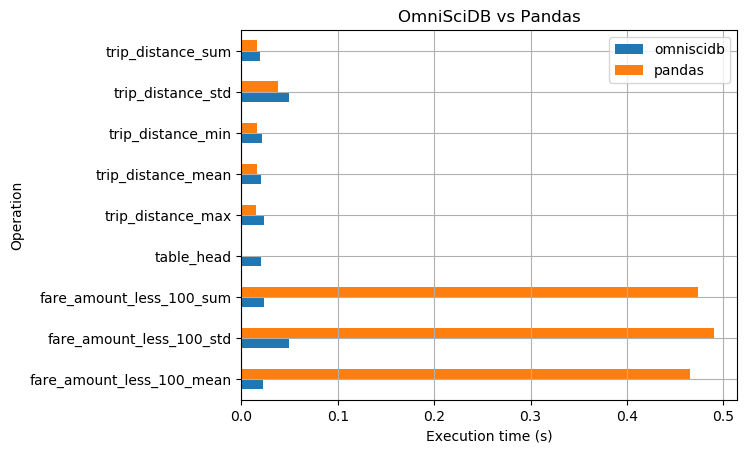
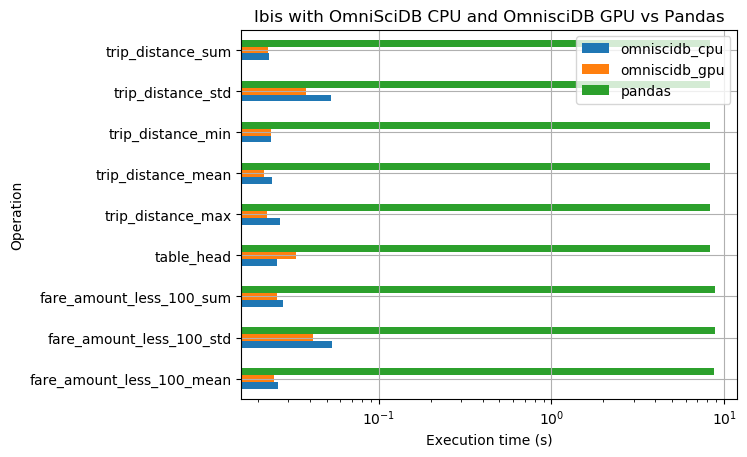
Added gpu backend and more instruction into README file

diff --git a/ibis_benchmark/benchmark_nyc_taxi.py b/ibis_benchmark/benchmark_nyc_taxi.py
@@ -28,7 +28,7 @@ import ibis
 import pandas as pd
 
 from ibis_benchmark.chart import gen_chart
-from ibis_benchmark.utils import benchmark, cacheit, register_log
+from ibis_benchmark.utils import benchmark, register_log
 
 # start a new benchmark log
 results_path = os.path.join(
@@ -38,7 +38,7 @@ os.makedirs(results_path, exist_ok=True)
 log_path = os.path.join(results_path, 'benchmark-nyc-taxi.json')
 register_log(log_path, new_log=True)
 
-conn_info = {
+conn_info_cpu = {
     'host': 'localhost',
     'port': 6274,
     'user': 'admin',
@@ -46,29 +46,45 @@ conn_info = {
     'database': 'omnisci',
 }
 
+conn_info_gpu = dict(conn_info_cpu)
+conn_info_gpu.update({'port': 26274})
+
 # using a persistant connection
-omniscidb_cli = ibis.omniscidb.connect(**conn_info)
+omniscidb_cli_cpu = ibis.omniscidb.connect(**conn_info_cpu)
+omniscidb_cli_gpu = ibis.omniscidb.connect(**conn_info_gpu)
 
 
-@cacheit
-def omniscidb_table(name):
-    return omniscidb_cli.table(name)
+def omniscidb_table(name, cpu=True):
+    if cpu:
+        return omniscidb_cli_cpu.table(name)
+    return omniscidb_cli_gpu.table(name)
 
 
-@cacheit
 def pandas_table(name):
     return pd.read_csv('../scripts/data/nyc-taxi.csv')
 
-
-# caching tables
-omniscidb_table('nyc_taxi')
-pandas_table('nyc_taxi')
 
 bechmark_config = {'repeat': 3, 'log_path': log_path}
 
 # ==========
 # Benchmarks
 # ==========
+"""
+# load data. it will create a cache for each connection
+op_id = 'backend_load_data'
+@benchmark(backend='omniscidb_cpu', id=op_id, **bechmark_config)
+def benchmark_load_omniscidb_cpu():
+    omniscidb_table('nyc_taxi', cpu=True)
+
+
+@benchmark(backend='omniscidb_gpu', id=op_id, **bechmark_config)
+def benchmark_load_omniscidb_gpu():
+    omniscidb_table('nyc_taxi', cpu=False)
+
+@benchmark(backend='pandas', id=op_id, **bechmark_config)
+def benchmark_load_pandas():
+    pandas_table('nyc_taxi')
+"""
 
 for op_id, expr_fn in [
     ('table_head', lambda t: t.head()),
@@ -91,9 +107,18 @@ for op_id, expr_fn in [
     ),
 ]:
     # OMNISCIDB
-    @benchmark(backend='omniscidb', id=op_id, **bechmark_config)
-    def benchmark_sum_fare_less_100_omniscidb():
+    @benchmark(backend='omniscidb_cpu', id=op_id, **bechmark_config)
+    def benchmark_omniscidb_cpu():
         t = omniscidb_table("nyc_taxi")
+        expr = expr_fn(t)
+        result = expr.execute()
+        assert expr is not None
+        assert result is not None
+
+    # OMNISCIDB
+    @benchmark(backend='omniscidb_gpu', id=op_id, **bechmark_config)
+    def benchmark_omniscidb_gpu():
+        t = omniscidb_table("nyc_taxi", cpu=False)
         expr = expr_fn(t)
         result = expr.execute()
         assert expr is not None
@@ -101,7 +126,7 @@ for op_id, expr_fn in [
 
     # PANDAS
     @benchmark(backend='pandas', id=op_id, **bechmark_config)
-    def benchmark_sum_fare_less_100_pandas():
+    def benchmark_pandas():
         t = pandas_table("nyc_taxi")
         result = expr_fn(t)
         assert result is not None

diff --git a/ibis_benchmark/chart.py b/ibis_benchmark/chart.py
@@ -19,7 +19,13 @@ def gen_chart(table_name):
     ax.set_xlabel("Execution time (s)")
     ax.set_ylabel("Operation")
 
-    df.T.plot(kind='barh', ax=ax, title='OmniSciDB vs Pandas', grid=True)
+    df.T.plot(
+        kind='barh',
+        ax=ax,
+        title='Ibis with OmniSciDB CPU and OmnisciDB GPU vs Pandas',
+        grid=True,
+        logx=True,
+    )
 
     fig.savefig(
         os.path.join(results_path, 'chart-{}.png'.format(table_name)),

diff --git a/README.md b/README.md
@@ -1,3 +1,74 @@
 # ibis-benchmark
 
+The goal of this project is the measuring of some expressions using 
+`Ibis` with `OmniSciDB` `CPU` and `GPU` and pure `Pandas`.
 
+## Environment
+
+First, it is necessary to prepare the environments and install and start 
+the servers.
+
+### OmniSciDB CPU
+
+To prepare and install `OmniSciDB` for `CPU`, open a new terminal and run the
+following commands:
+
+```sh
+conda create -n omniscidb-cpu
+conda activate omniscidb-cpu
+conda install -c conda-forge omniscidb-cpu
+cd $CONDA_PREFIX
+mv bin/omnisci_initdb bin/initdb
+./startomnisci
+```
+
+It will ask if you want to download and insert sample data, you can answer `n`.
+
+
+### OmniSciDB GPU (CUDA)
+
+To prepare and install `OmniSciDB` for `GPU` (CUDA), open a new terminal and run the
+following commands:
+
+```sh
+conda create -n omniscidb-cuda
+conda activate omniscidb-cuda
+conda install -c quansight omniscidb-cuda
+cd $CONDA_PREFIX
+mv bin/omnisci_initdb bin/initdb
+./omnisci_server --port 26274 --calcite-port 26279 --http-port 26278
+```
+
+It will ask if you want to download and insert sample data, you can answer `n`.
+
+
+### Ibis-benchmark
+
+To prepare the conda environment, run:
+
+```sh
+conda env create -n ibis-benchmark --file environment.yml
+conda activate ibis-benchmark
+```
+
+To load the data used by this benchark, run the follow commands:
+
+```sh
+cd scripts
+./download.sh
+./load_data_cpu.sh
+./load_data_gpu.sh
+```
+
+## Benchmark
+
+To run the benchmark, follow the commands bellow:
+
+```sh
+cd ~/ibis_benchmark
+python benchmark_nyc_taxi.py
+```
+
+The results is stored at `ibis_benchmark/results/`. 
+It stores a `JSON` file with the time used by each set of expressions and a
+`PNG` with the chart representation of this `JSON` file. 
